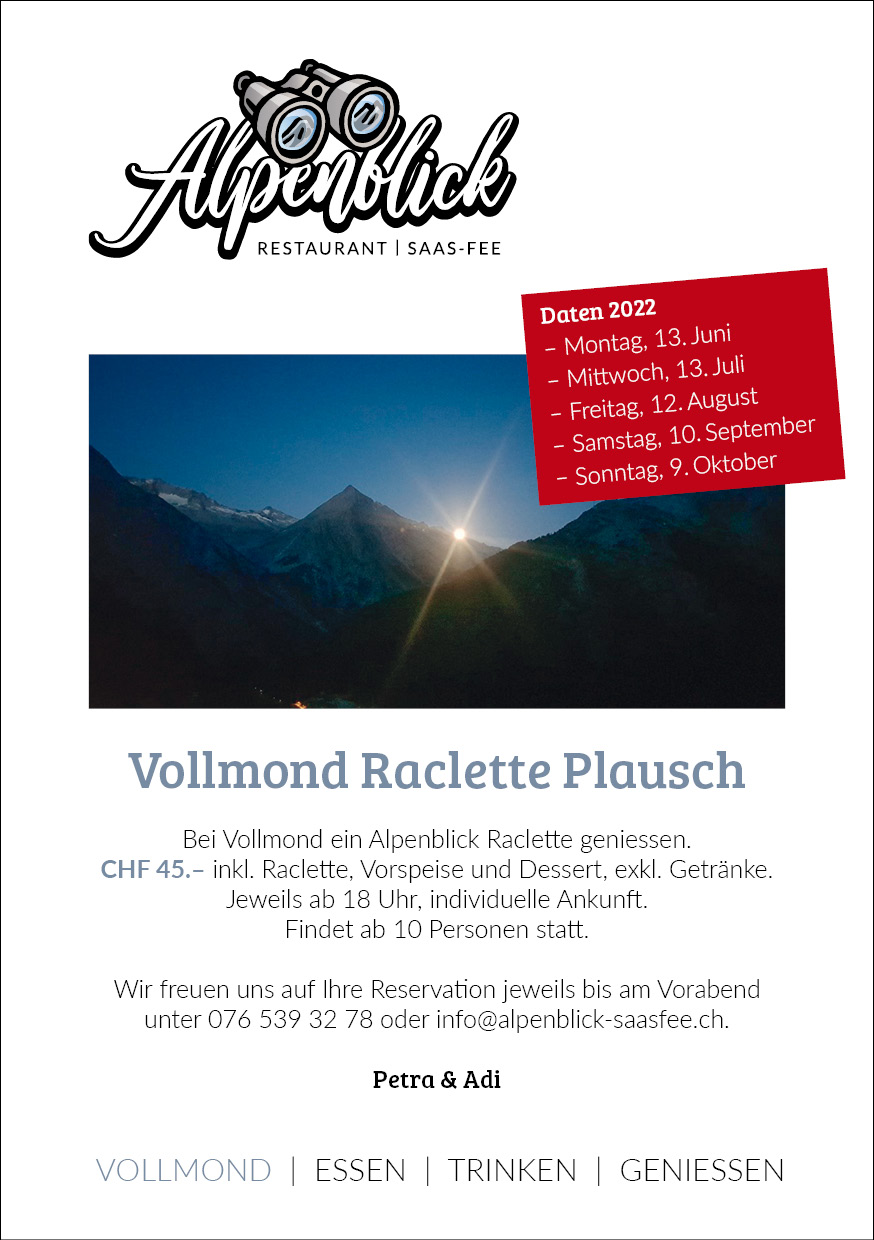
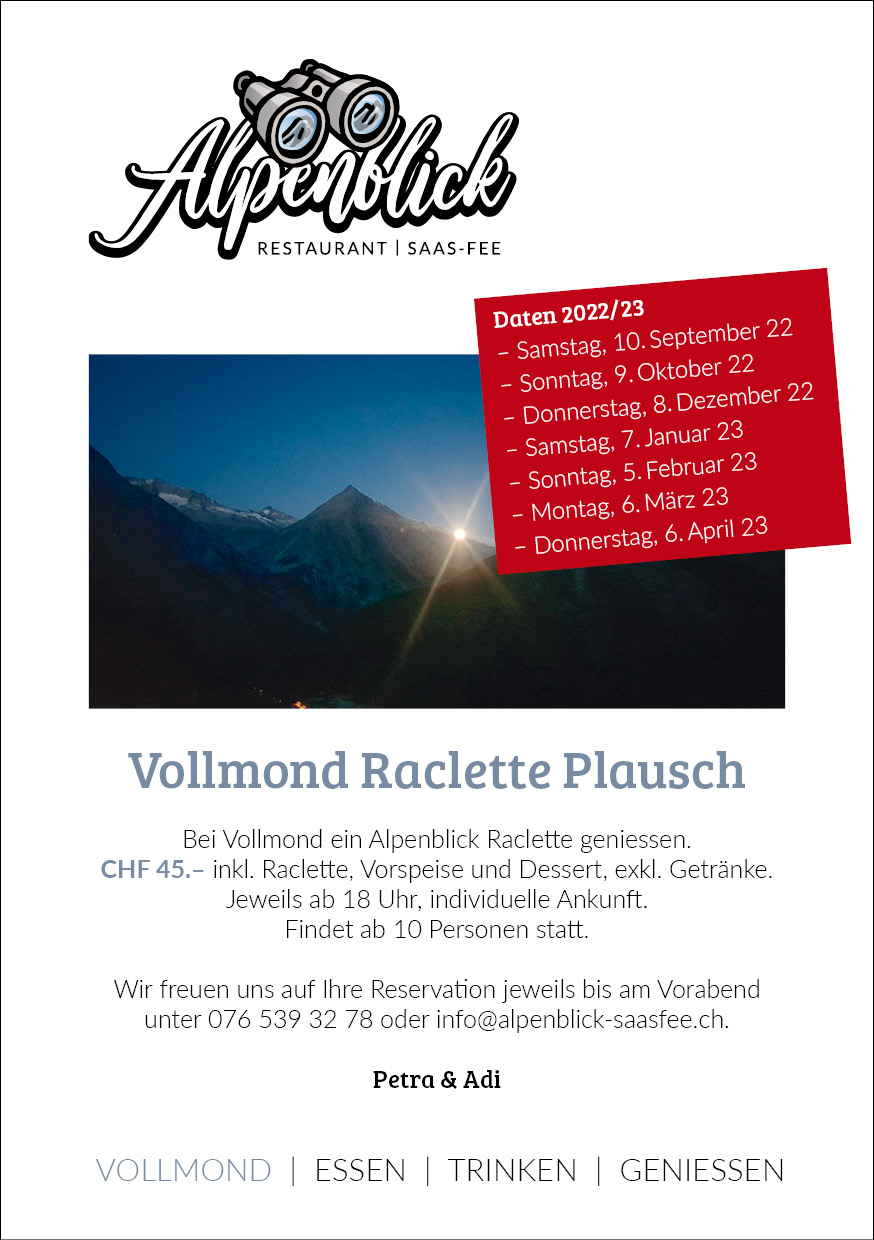
update homepage

Changed region(s): [[0.5252, 0.2145, 0.9886, 0.4597]]

diff --git a/content/_index.md b/content/_index.md
@@ -16,35 +16,48 @@ Normaler Text zwischen Linien<br>
 
 --- -->
 
-<!-- 
+<br>
+
 ---
 
-**Saisonende und Start Wintersaison**<br>
+**Früheres Saisonende wegen <a href="images/Alpenblick_Flyer_Umbau_2022.jpg" target="_blank"> Umbau</a> und Start Wintersaison 2022 / 23**<br>
+Wir geniessen mit euch noch bis und mit **Sonntag, 25. September 2022** die Sommersaison. 
+
+Am **Donnerstag, 08. Dezember 2022** freuen wir uns, mit euch in die Wintersaison 2022 / 23 starten zu dürfen!
+
+<!--
+
+ **Saisonende und Start Wintersaison**<br>
 Am **Mittwoch, 15. Dezember 2021** freuen wir uns, mit euch in die Wintersaison 2021 / 22 starten zu dürfen!
-<br>
-<br>
+
 
 **Sommersaison 2021**<br>
 Wir freuen uns sehr, Sie nach der Zwischensaison ab **Donnerstag, 03. Juni 2021 (Fronleichnam)** wieder bei uns im Restaurant Alpenblick begrüssen und verwöhnen zu dürfen!
+
 
 **Start Sommersaison 2022**<br>
 Wir freuen uns sehr, Sie nach der Zwischensaison ab **Freitag, 10. Juni 2022** (bei schönem Wetter bereits am **Freitag, 03. Juni 2022**) wieder bei uns im Restaurant Alpenblick begrüssen und verwöhnen zu dürfen!
 
 Wir geniessen mit euch noch bis und mit **Sonntag, 24. Oktober 2021** die Sommersaison. Am **Mittwoch, 15. Dezember 2021** freuen wir uns, mit euch in die Wintersaison 2021 / 22 starten zu dürfen!
 
+
 **Wintersaison 2020 / 2021 – Take-away**<br>
 Wir freuen uns, Sie bis und mit Saisonende Sonntag, 18. April täglich (ausser dienstags) zwischen 11 und 15 Uhr wenigstens mit unserem <a href="images/Alpenblick_Take-away_Menukarte_A4_hoch_DE.jpg" target="_blank"> Take-away-Angebot</a> verwöhnen zu können. 
+
 
 **Saisonende und Start Sommersaison 2022**<br>
 Wir geniessen mit euch noch bis und mit **Sonntag, 24. April 2022** die Wintersaison. 
 
 Am **Freitag, 10. Juni 2022** (bei schönem Wetter bereits am **Freitag, 03. Juni 2022**) freuen wir uns, mit euch in die Sommersaison 2022 starten zu dürfen!
 
+
 **Start Sommersaison 2022**<br>
 Wir freuen uns sehr, Sie nach der Zwischensaison ab **Freitag, 03. Juni 2022** wieder bei uns im Restaurant Alpenblick begrüssen und verwöhnen zu dürfen!
 
+-->
+
 ---
-<br> -->
+<br>
 
 # Herzlich Willkommen ...
 ![Alpenblick](images/Alpenblick_Ansicht_13.jpg "Alpenblick")
@@ -68,29 +81,30 @@ _Petra & Adi_
 
 
 ## Übernachten
-Unser kleines, aber feines <a href="images/Alpenblick_Flyer_Uebernachten_2021.jpg" target="_blank">Massenlager</a> für Gruppen (von mind. 6 und max. 10 Personen) ist schlafbereit!
+Unser kleines, aber feines <a href="images/Alpenblick_Flyer_Uebernachten_2022.jpg" target="_blank">Massenlager</a> für Gruppen (von mind. 6 und max. 10 Personen) ist schlafbereit!
 
 
 ## Aktuelle Anlässe
 * Jeden Freitag: <a href="images/Alpenblick_Flyer_Freitag_Abend_Menu_2020.jpg" target="_blank"> Freitag Abend Überraschungsmenu</a>
-* Montag, 13. Juni 2022: <a href="images/Alpenblick_Flyer_Vollmond_Raclette_Plausch.jpg" target="_blank"> Vollmond Raclette Plausch</a>
-* Sonntag, 10. Juli 2022: <a href="https://www.saas-fee.ch/de/events/top-events-im-sommer/saaser-gourmet-trail" target="_blank"> Saaser Gourmet-Trail</a>
-* Mittwoch, 13. Juli 2022: <a href="images/Alpenblick_Flyer_Vollmond_Raclette_Plausch.jpg" target="_blank"> Vollmond Raclette Plausch</a>
-* Montag, 1. August 2022: <a href="images/Alpenblick_Flyer_1_August_2022.jpg" target="_blank"> Schweizer Nationalfeiertag</a>
-* Sonntag, 07. August 2022: <a href="images/Alpenblick_Flyer_Ziegenfest_2022.jpg" target="_blank"> Ziegenfest Saas--Fee</a>
-* Freitag, 12. August 2022: <a href="images/Alpenblick_Flyer_Vollmond_Raclette_Plausch.jpg" target="_blank"> Vollmond Raclette Plausch</a>
-* Mittwoch bis Sonntag, 07.-11. September 2022: <a href="https://heartbeat-festival.ch/" target="_blank"> Saas-Fee Heartbeat-Festival</a>
+* 04. – 25. September 2022: <a href="https://www.saas-fee.ch/de/events/top-events-im-sommer/saaser-gaumengaudi" target="_blank"> Saaser Gaumengaudi</a> (-> <a href="images/Alpenblick_Flyer_Saaser_Gaumengaudi_2022.jpg" target="_blank">Unser Menü</a>)
 * Samstag, 10. September 2022: <a href="images/Alpenblick_Flyer_Vollmond_Raclette_Plausch.jpg" target="_blank"> Vollmond Raclette Plausch</a>
 * Sonntag, 09. Oktober 2022: <a href="images/Alpenblick_Flyer_Vollmond_Raclette_Plausch.jpg" target="_blank"> Vollmond Raclette Plausch</a>
+* Donnerstag, 08. Dezember 2022: <a href="images/Alpenblick_Flyer_Vollmond_Raclette_Plausch.jpg" target="_blank"> Vollmond Raclette Plausch</a>
+* Samstag, 07. Januar 2023: <a href="images/Alpenblick_Flyer_Vollmond_Raclette_Plausch.jpg" target="_blank"> Vollmond Raclette Plausch</a>
+* Sonntag, 05. Februar 2023: <a href="images/Alpenblick_Flyer_Vollmond_Raclette_Plausch.jpg" target="_blank"> Vollmond Raclette Plausch</a>
+* Montag, 06. März 2023: <a href="images/Alpenblick_Flyer_Vollmond_Raclette_Plausch.jpg" target="_blank"> Vollmond Raclette Plausch</a>
+* Donnerstag, 06. April 2023: <a href="images/Alpenblick_Flyer_Vollmond_Raclette_Plausch.jpg" target="_blank"> Vollmond Raclette Plausch</a>
 <!-- * Samstag, 25. Dezember 2021: <a href="images/Alpenblick_Flyer_Christmas_Fondue.jpg" target="_blank"> Christmas Fondue</a> -->
-<!-- * Freitag, 18. März 2022: <a href="images/Alpenblick_Flyer_Vollmond_Raclette_Plausch.jpg" target="_blank"> Vollmond Raclette Plausch</a> -->
 <!-- * Sonntag, 17. April 2022: <a href="images/Alpenblick_Flyer_Ostern_2022.jpg" target="_blank"> Alpenblick Ostereiersuche</a> -->
+<!-- * Sonntag, 10. Juli 2022: <a href="https://www.saas-fee.ch/de/events/top-events-im-sommer/saaser-gourmet-trail" target="_blank"> Saaser Gourmet-Trail</a> -->
+<!-- * Montag, 1. August 2022: <a href="images/Alpenblick_Flyer_1_August_2022.jpg" target="_blank"> Schweizer Nationalfeiertag</a> -->
+<!-- * Sonntag, 07. August 2022: <a href="images/Alpenblick_Flyer_Ziegenfest_2022.jpg" target="_blank"> Ziegenfest Saas--Fee</a> -->
 
 
 ## Auf Geschenksuche? Warum nicht ...
 * ... einen Alpenblick Gutschein via [E-Mail](mailto:info@alpenblick-saasfee.ch?Subject=Gutscheinbestellung) bestellen? 
 * ... ein Satz <a href="images/Alpenblick_Stirnband.jpg" target="_blank">heisse Ohren</a> verteilen?
-* ... eine <a href="images/Alpenblick_Flyer_Uebernachten_2021.jpg" target="_blank">Mütze Schlaf</a> verschenken?
+* ... eine <a href="images/Alpenblick_Flyer_Uebernachten_2022.jpg" target="_blank">Mütze Schlaf</a> verschenken?
 * ... einen <a href="images/Alpenblick_Postkarten.jpg" target="_blank">Postkartengruss</a> versenden?
 * ... ein bisschen <a href="images/Alpenblick_Flyer_Verfeinern_2021.jpg" target="_blank">Würze</a> reinbringen?
 
@@ -98,6 +112,7 @@ Unser kleines, aber feines <a href="images/Alpenblick_Flyer_Uebernachten_2021.jp
 ## Instagram Foto Wettbewerb
 <a href="https://www.instagram.com/alpenblick_saasfee/" target="_blank" alt="Instagram" title="Instagram"><img src="images/Alpenblick_Insta_Foto_Wettbewerb.jpg" alt="Instagram"></a>
 
+* April 2022 bis Juli 2022: Keine Teilnahmen
 * Siegerfoto März 2022: <a href="images/Alpenblick_alpenblickwinkel_22_03_Andrea_Teufer.png" target="_blank"> Andrea Teufer</a>
 * August 2021 bis Februar 2022: Keine Teilnahmen
 * Siegerfoto Juli 2021: <a href="images/Alpenblick_alpenblickwinkel_21_07_udocasel.png" target="_blank"> udocasel</a>
@@ -119,5 +134,3 @@ Danke für deine Bewertung:<br>
 <br>
 
 <a href="https://www.saas-fee.ch/" target="_blank" alt="Saas-Fee" title="Saas-Fee"><img src="images/Saas-Fee_Logo_Rot_RGB.svg" alt="Saas-Fee" class="logo"></a>
-
-
